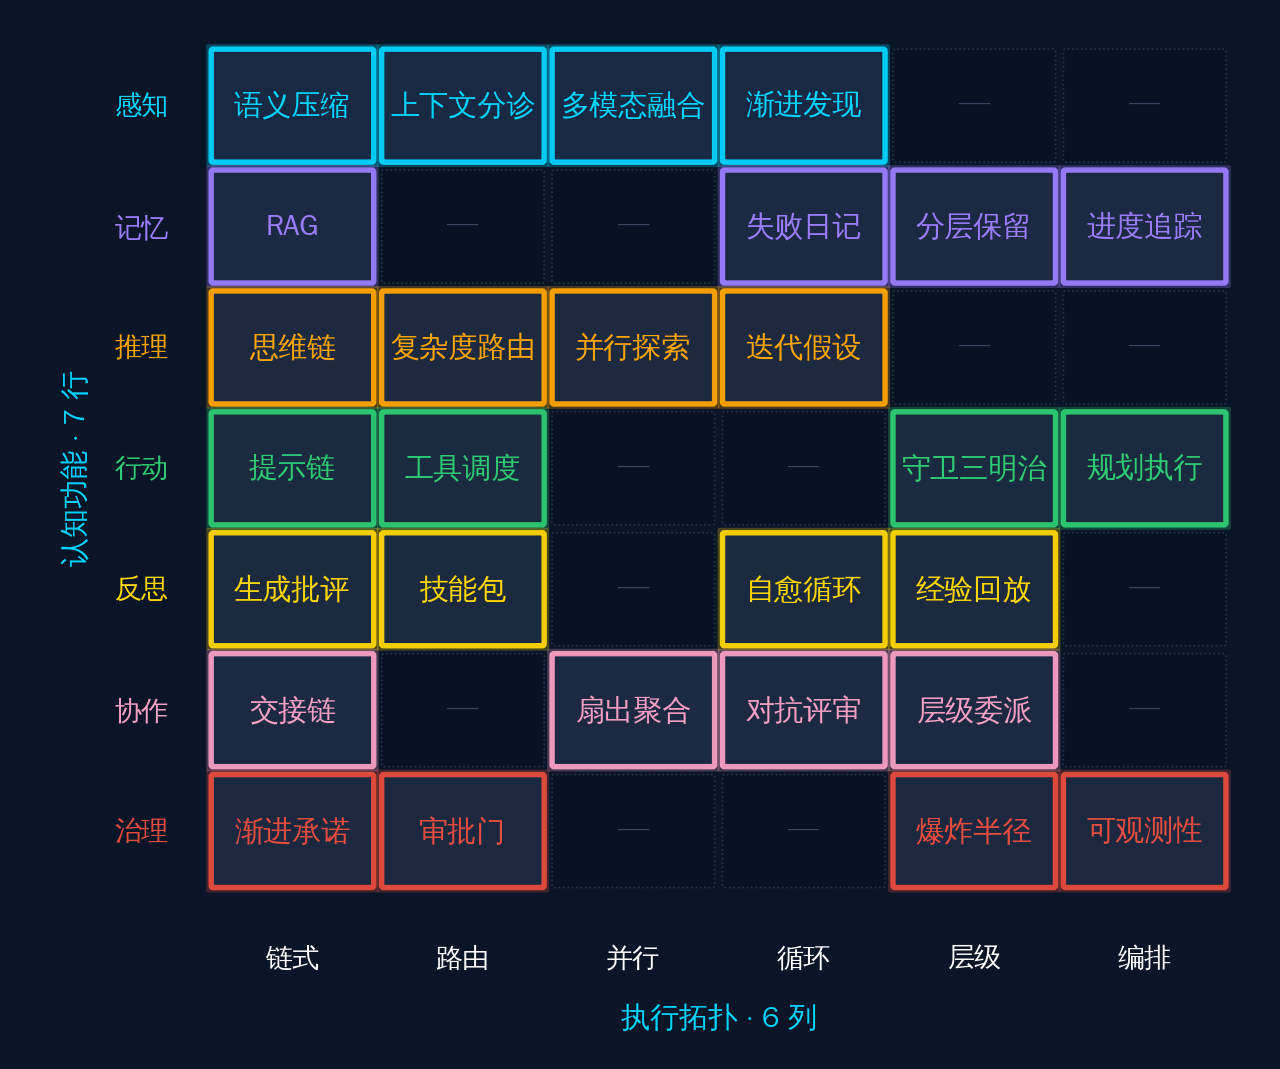
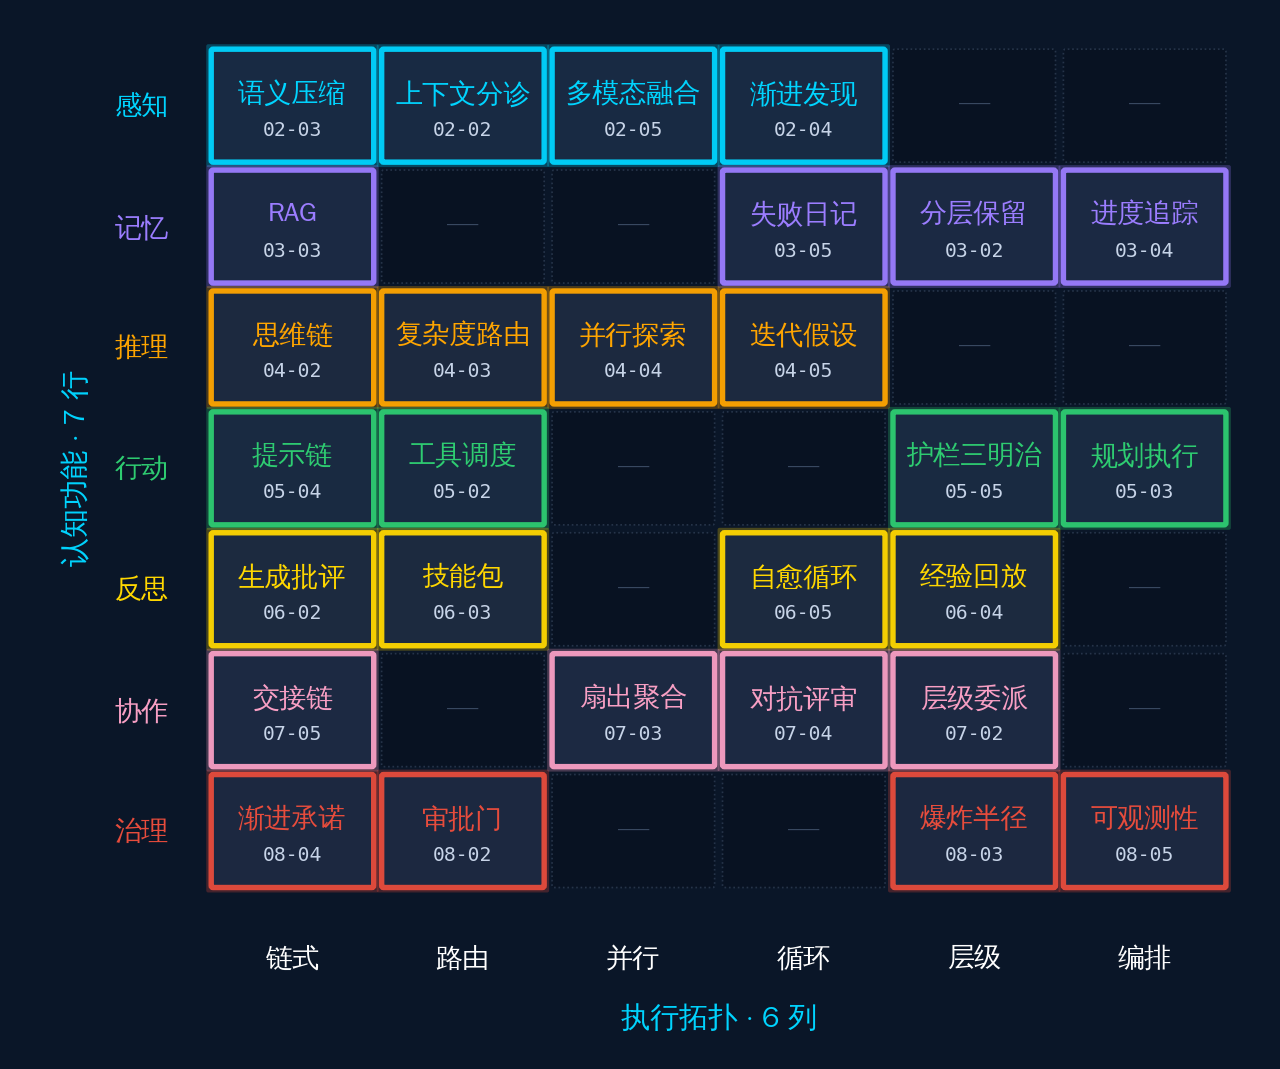
fix: align matrix canonical positions + 守卫→护栏三明治
- M2 RAG: 路由 Route → 链式 Chain (label + body argument rewrite)
- M3 进度追踪: 链式 Chain → 编排 Orchestrate (label + body argument rewrite)
- Regenerate matrix-28-en/zh PNGs from canonical render_matrix.py
- Global rename 守卫三明治 → 护栏三明治 (5 zh pattern pages + index)

diff --git a/zh/patterns/m2-rag-pipeline/index.html b/zh/patterns/m2-rag-pipeline/index.html
@@ -53,7 +53,7 @@
             <tbody>
             <tr>
             <td style="text-align: left;"><strong>双轴坐标</strong></td>
-            <td style="text-align: left;">记忆 Memory × 路由 Route（选）</td>
+            <td style="text-align: left;">记忆 Memory × 链式 Chain（传）</td>
             </tr>
             <tr>
             <td style="text-align: left;"><strong>成本档</strong></td>
@@ -72,10 +72,10 @@
             <h2>它解决什么问题</h2>
             <p>企业知识库动辄几十万份文档加历史工单，任何 LLM 的 context window 都装不下，但 agent 不能因此回答"我不知道"。它需要在每次提问时，从海量语料里挑出最相关的几份临时塞进 context。这就是 RAG 要解决的事：把 input 之外的事实按需拉进来。</p>
             <p>2026 年生产级 RAG 的工程难点已经不是"能不能查到",而是"会不会查"。naive RAG 是一次查询一次返回，而真正能上生产的 RAG 让 agent 主导多步检索——看完第一批结果不满意就改写 query 再查，查到候选答案就主动找反例验证，跨多个语料做交叉对比。</p>
-            <h2>为什么坐标是「记忆 × 路由」</h2>
+            <h2>为什么坐标是「记忆 × 链式」</h2>
             <ul>
             <li><strong>纵轴 · 记忆</strong>：RAG 是外挂知识库，把 input 之外的事实拉进来，本质是"记下哪些事实、怎么把它调出来"，属于记忆模块里管 declarative knowledge 的部分。</li>
-            <li><strong>横轴 · 路由</strong>：不同 query 要路由到不同的 retrieval source——语义查询走 vector，精确关键词走 BM25，结构化关系走 KG 或 SQL。选哪个源、怎么融合多个源的结果，是路由决策。</li>
+            <li><strong>横轴 · 链式</strong>：RAG 的骨架是一条顺序流水线——query → embed → 召回 top-K → 重排 → 注入 context → 生成，每一步的输出直接进入下一步。混合检索、多源融合都是节点内的工程精雕，不改变链式骨架；agent 主导的多步检索是这条链外面再套一层循环，链本身依然成立。"RAG Pipeline"这个名字本身就在说它是 pipeline，一条事实从知识库流到答案的传递链。</li>
             </ul>
             <h2>核心机制</h2>
             <ol>

diff --git a/zh/patterns/m3-progress-tracking/index.html b/zh/patterns/m3-progress-tracking/index.html
@@ -53,7 +53,7 @@
             <tbody>
             <tr>
             <td style="text-align: left;"><strong>双轴坐标</strong></td>
-            <td style="text-align: left;">记忆 Memory × 链式 Chain（传）</td>
+            <td style="text-align: left;">记忆 Memory × 编排 Orchestrate（调）</td>
             </tr>
             <tr>
             <td style="text-align: left;"><strong>成本档</strong></td>
@@ -72,10 +72,10 @@
             <h2>它解决什么问题</h2>
             <p>LLM 没有真正的工作记忆，它的"记忆"全活在 context window 里，而 context window 有 U 形 attention 特性——中间段会被淹没。一个长任务跑两三个小时，中间出现一段 debug 或深挖细节的"打野"，原计划里的剩余任务很容易被注意力遗忘。一个常见的故障是：agent 把前三个文件拆好后陷进一个小 bug 调了二十多轮，调完直接跑去写测试，忘了原计划里还有第四个文件没建。</p>
             <p>进度追踪用工程手段兜住这件事：强制把 todos 显式写出来，反复提醒 agent 去看自己的清单。关键在于它不是给人看的，是给 agent 自己看的——agent 看自己写的结构化 todos，比看自己三十轮前夹杂着噪声的对话历史靠谱得多。</p>
-            <h2>为什么坐标是「记忆 × 链式」</h2>
+            <h2>为什么坐标是「记忆 × 编排」</h2>
             <ul>
             <li><strong>纵轴 · 记忆</strong>：它给 agent 一份"工作日志",跨 step 保留任务上下文，是记忆最简形式（session memory）——记着"我刚做了什么、现在在做什么、接下来做什么"。</li>
-            <li><strong>横轴 · 链式</strong>：进度按步序 append-only 写入，每完成一个动作就更新 status，每开始一个动作就标 in_progress。状态沿任务步骤顺序流动，是典型的链式传递。</li>
+            <li><strong>横轴 · 编排</strong>：进度追踪不是顺序传递，是把任务结构外部化成一份 agent 自己反复回看的中心 todo list——它不像链式那样"前一步输出当后一步输入"，而像项目经理手里的看板，agent 每一轮都先看看板再决定下一步。它跟规划执行（A2）也不同：规划执行的 plan 在 planner 头脑里推动 executor 跑，进度追踪的 todo 是 agent 自己写给自己看的中心调度面板。状态机里一次只允许一个 in_progress、其余 pending 的硬约束，正是 orchestrator pattern 在记忆轴上的表达。</li>
             </ul>
             <h2>核心机制</h2>
             <ol>

diff --git a/zh/patterns/a5-guardrail-sandwich/index.html b/zh/patterns/a5-guardrail-sandwich/index.html
@@ -3,7 +3,7 @@
 <head>
     <meta charset="UTF-8">
     <meta name="viewport" content="width=device-width, initial-scale=1.0">
-    <title>A5 守卫三明治 · 模式白皮书 · ADPS</title>
+    <title>A5 护栏三明治 · 模式白皮书 · ADPS</title>
     <meta name="description" content="在 agent 每个有副作用或高风险的动作前后套上 pre-check 和 post-check 夹层，把它从&quot;自由行动&quot;约束到&quot;被监督的行动&quot;。">
     <meta property="og:image" content="https://adpsagent.com/images/og-card.png">
     <meta name="twitter:card" content="summary_large_image">
@@ -42,7 +42,7 @@
                 <span style="margin: 0 0.45rem;">/</span>模式白皮书<span style="margin: 0 0.45rem;">/</span>A5
             </p>
 
-            <h1>A5 · Guardrail Sandwich · 守卫三明治</h1>
+            <h1>A5 · Guardrail Sandwich · 护栏三明治</h1>
             <table>
             <thead>
             <tr>

diff --git a/zh/patterns/a1-tool-dispatch/index.html b/zh/patterns/a1-tool-dispatch/index.html
@@ -141,7 +141,7 @@
             <ul>
             <li><strong>最简工具集（A4）</strong>：同格互补。A1 在给定工具集里挑得准，A4 先把工具集砍到合理规模让 A1 挑得动——挑之前先砍，砍完再挑。</li>
             <li><strong>规划-执行（A2）</strong>：A1 是单步决策的优化，A2 是多步任务的整体编排。Programmatic Tool Calling 是两者的交汇——工程层定调用序列，每步内部仍是一次 dispatch。</li>
-            <li><strong>守卫三明治（A5）</strong>：A5 在 dispatch 的前后套 pre-check 和 post-check，与 A1 的 quota、state refresh 是嵌套关系——A1 选对工具，A5 保证选错时也兜得住。</li>
+            <li><strong>护栏三明治（A5）</strong>：A5 在 dispatch 的前后套 pre-check 和 post-check，与 A1 的 quota、state refresh 是嵌套关系——A1 选对工具，A5 保证选错时也兜得住。</li>
             <li><strong>复杂度路由（R2）</strong>：思路同源，都是基于 context 做路由，区别在 R2 路由的是推理档位，A1 路由的是工具。</li>
             </ul>
             <h2>一句话记住它</h2>

diff --git a/zh/patterns/a2-plan-and-execute/index.html b/zh/patterns/a2-plan-and-execute/index.html
@@ -124,7 +124,7 @@ while plan 未完成:
             <ul>
             <li><strong>提示链（A3）</strong>：一对对偶模式，一重一轻。A2 是完整 plan 加 DAG 并行加 replan，A3 是线性串联无 replan。生产里最常见的形态是 A2 在外、A3 在内——每个被规划出来的子任务内部跑一条 prompt chain。</li>
             <li><strong>工具调度（A1）</strong>：A2 的每个执行步骤内部都要做一次 A1 的工具选择。Planner 和 Executor 用异构模型的思路，与 A1 的 Programmatic Tool Calling 同源。</li>
-            <li><strong>守卫三明治（A5）</strong>：plan 里的审批节点和合规校验，落地时常由 A5 的 pre-check 实现。两者都把控制权交还给用户。</li>
+            <li><strong>护栏三明治（A5）</strong>：plan 里的审批节点和合规校验，落地时常由 A5 的 pre-check 实现。两者都把控制权交还给用户。</li>
             <li><strong>迭代假设验证（R4）</strong>：R4 是推理端的"边做边调"，A2 是行动端的"先定后调"。A2 的局部 replan 借鉴了 R4 的反馈调整思路。</li>
             </ul>
             <h2>一句话记住它</h2>

diff --git a/zh/patterns/a3-prompt-chaining/index.html b/zh/patterns/a3-prompt-chaining/index.html
@@ -129,7 +129,7 @@ return 成功(current, total_tokens, trace)
             <ul>
             <li><strong>规划-执行（A2）</strong>：一对对偶，一轻一重。A3 是直线，A2 是图。任务能画成 DAG（有并行、有跨步依赖）就用 A2，是一根直线就用 A3。生产里常见 A2 在外、A3 在内的混合形态。</li>
             <li><strong>工具调度（A1）</strong>：嵌套关系而非替代。chain 的某一步内部可能调工具，那一步是 A1（在多个工具中选一个），但它发生在 chain 的某一节里。</li>
-            <li><strong>守卫三明治（A5）</strong>：chain 的闸门是同步的程序化检查，A5 的 hook 是套在工具调用前后的夹层。两者都是"让流程在卡点处可拦截"。</li>
+            <li><strong>护栏三明治（A5）</strong>：chain 的闸门是同步的程序化检查，A5 的 hook 是套在工具调用前后的夹层。两者都是"让流程在卡点处可拦截"。</li>
             </ul>
             <h2>一句话记住它</h2>
             <p>只要你的系统跟 LLM 多轮对话，你其实已经在用 prompt chain 了，区别只在它是显式还是隐式——显式的链你能给每段配模型、加闸门、留 trace、replay 失败步骤，隐式的链你只能祈祷模型这次别翻车。</p>

diff --git a/zh/patterns/index.html b/zh/patterns/index.html
@@ -124,7 +124,7 @@
                 <li style="margin-bottom: 0.7rem; line-height: 1.55;"><a href="/zh/patterns/a2-plan-and-execute/" style="font-weight: 600;">A2 · 规划执行</a><span style="color: var(--color-text-muted);"> — Agent 先生成完整 plan（含依赖结构、资源预估、审批节点），再按 plan 执行，遇到偏离时局部 replan 而非全局重写。</span></li>
                 <li style="margin-bottom: 0.7rem; line-height: 1.55;"><a href="/zh/patterns/a3-prompt-chaining/" style="font-weight: 600;">A3 · 提示链</a><span style="color: var(--color-text-muted);"> — 把一个复杂任务拆成一串小任务，每一步用一段独立的 prompt 跑，前一步的输出作为下一步的输入，串起来完成。</span></li>
                 <li style="margin-bottom: 0.7rem; line-height: 1.55;"><a href="/zh/patterns/a4-minimal-tool-set/" style="font-weight: 600;">A4 · 最简工具集</a> <span style="font-size:0.72em; color: var(--color-brass, #b8842b); border:1px solid currentColor; border-radius:3px; padding:0 4px; vertical-align:middle;">扩展</span><span style="color: var(--color-text-muted);"> — 把 agent 的工具集控制在合理上限（通常 10 到 30 个），砍掉低频、合并相似、把次要工具下沉到 sub-agent，给模型留下选择的专注力。</span></li>
-                <li style="margin-bottom: 0.7rem; line-height: 1.55;"><a href="/zh/patterns/a5-guardrail-sandwich/" style="font-weight: 600;">A5 · 守卫三明治</a><span style="color: var(--color-text-muted);"> — 在 agent 每个有副作用或高风险的动作前后套上 pre-check 和 post-check 夹层，把它从"自由行动"约束到"被监督的行动"。</span></li>
+                <li style="margin-bottom: 0.7rem; line-height: 1.55;"><a href="/zh/patterns/a5-guardrail-sandwich/" style="font-weight: 600;">A5 · 护栏三明治</a><span style="color: var(--color-text-muted);"> — 在 agent 每个有副作用或高风险的动作前后套上 pre-check 和 post-check 夹层，把它从"自由行动"约束到"被监督的行动"。</span></li>
             </ul>
             <h3>反思 Reflection · 4 核心</h3>
             <ul style="list-style: none; margin: 0.5rem 0 1.75rem 0; padding: 0;">